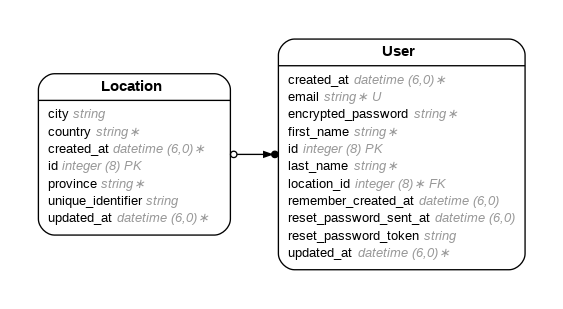
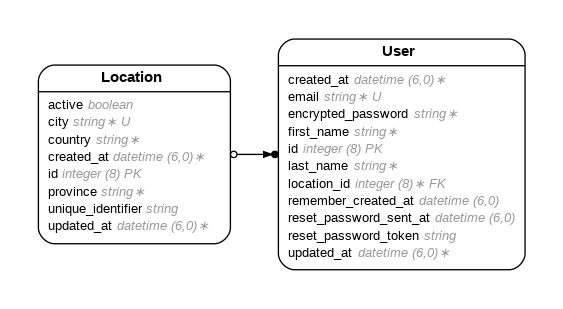
updated the locations table to include an active column for prompting users to update their locations

Changed region(s): [[0.0604, 0.2039, 0.4227, 0.8155]]

diff --git a/db/schema.rb b/db/schema.rb
@@ -10,7 +10,7 @@
 #
 # It's strongly recommended that you check this file into your version control system.
 
-ActiveRecord::Schema[8.0].define(version: 2026_02_11_183957) do
+ActiveRecord::Schema[8.0].define(version: 2026_02_11_192453) do
   # These are extensions that must be enabled in order to support this database
   enable_extension "pg_catalog.plpgsql"
 
@@ -21,6 +21,7 @@ ActiveRecord::Schema[8.0].define(version: 2026_02_11_183957) do
     t.datetime "created_at", null: false
     t.datetime "updated_at", null: false
     t.string "unique_identifier"
+    t.boolean "active"
     t.index ["country", "province", "city"], name: "index_locations_on_country_province_city", unique: true
   end
 

diff --git a/app/services/locations_importer.rb b/app/services/locations_importer.rb
@@ -7,6 +7,8 @@ class LocationsImporter
   COUNTRY_CODE = "US"
 
   def self.call
+    Location.all.update_all(active: false)
+    
     states = get_request("#{BASE_URL}/countries/#{COUNTRY_CODE}/states")
 
     states.each do |state|
@@ -21,6 +23,8 @@ class LocationsImporter
           province: state_name,
           city: city["name"],
         )
+
+        location.active = true
 
         location.unique_identifier = Location.generate_unique_identifier("US", state_code, city["name"])
         location.save!

diff --git a/app/models/location.rb b/app/models/location.rb
@@ -3,6 +3,7 @@
 # Table name: locations
 #
 #  id                :bigint           not null, primary key
+#  active            :boolean
 #  city              :string
 #  country           :string           not null
 #  province          :string           not null

diff --git a/db/migrate/20260211192453_add_active_to_locations.rb b/db/migrate/20260211192453_add_active_to_locations.rb
@@ -1,0 +1,5 @@
+class AddActiveToLocations < ActiveRecord::Migration[8.0]
+  def change
+    add_column :locations, :active, :boolean
+  end
+end
